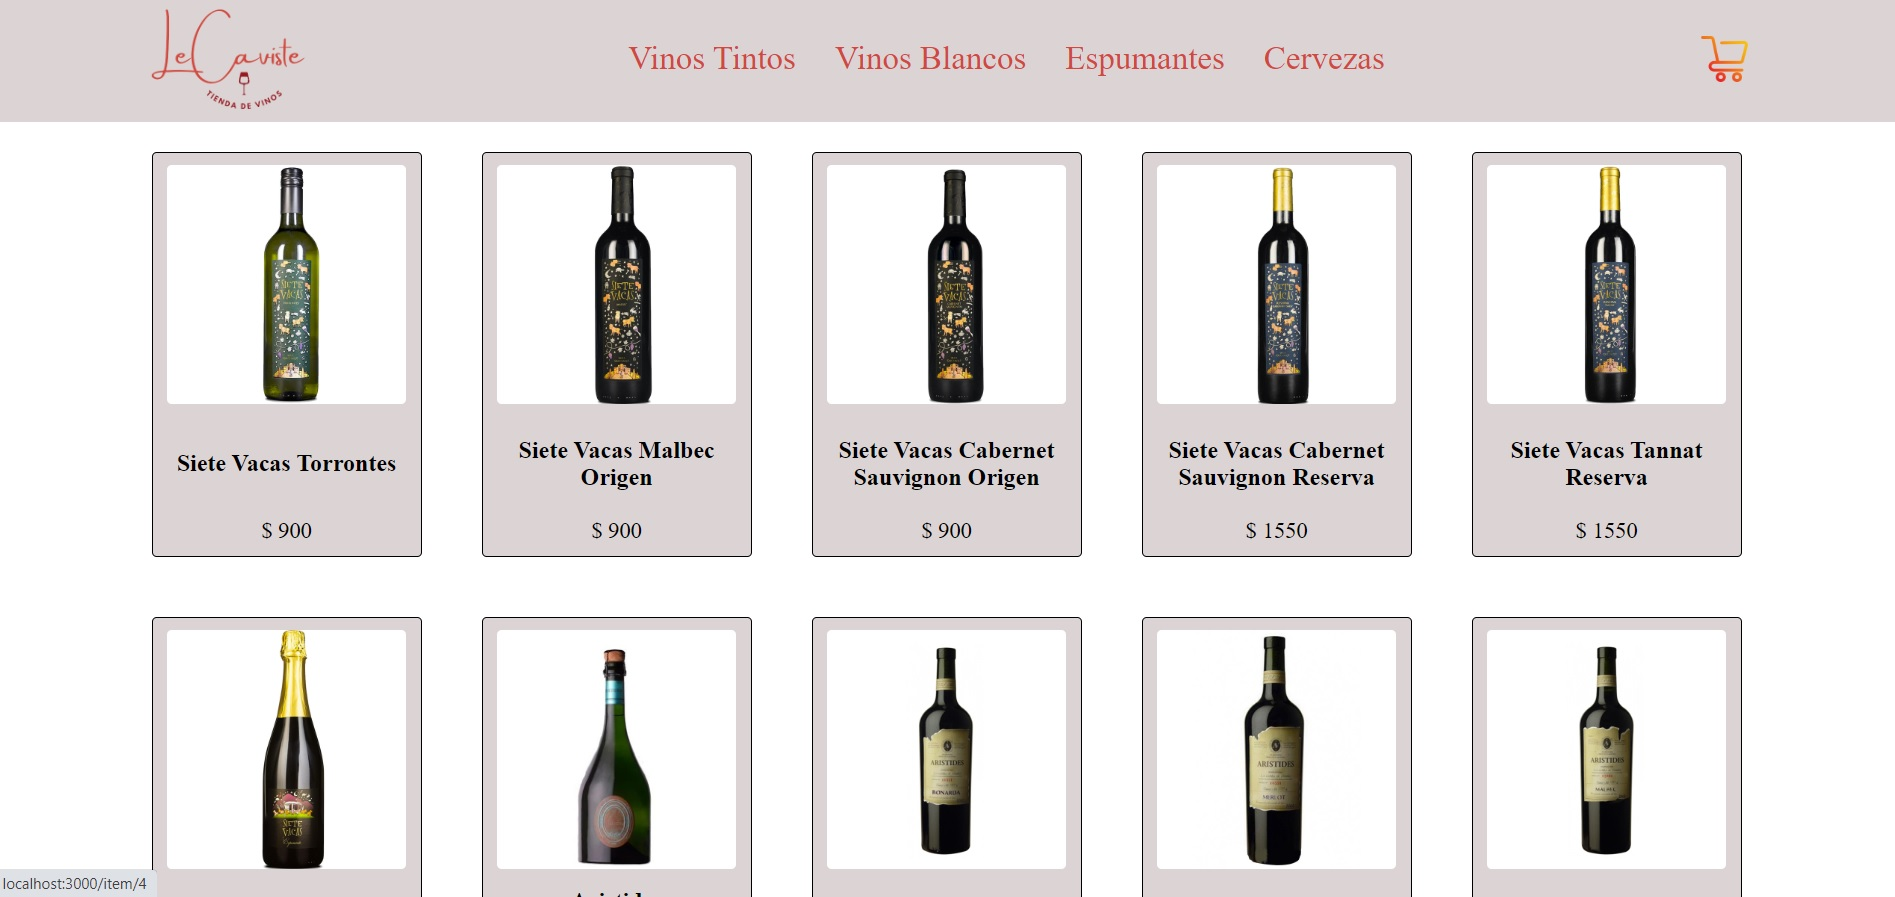
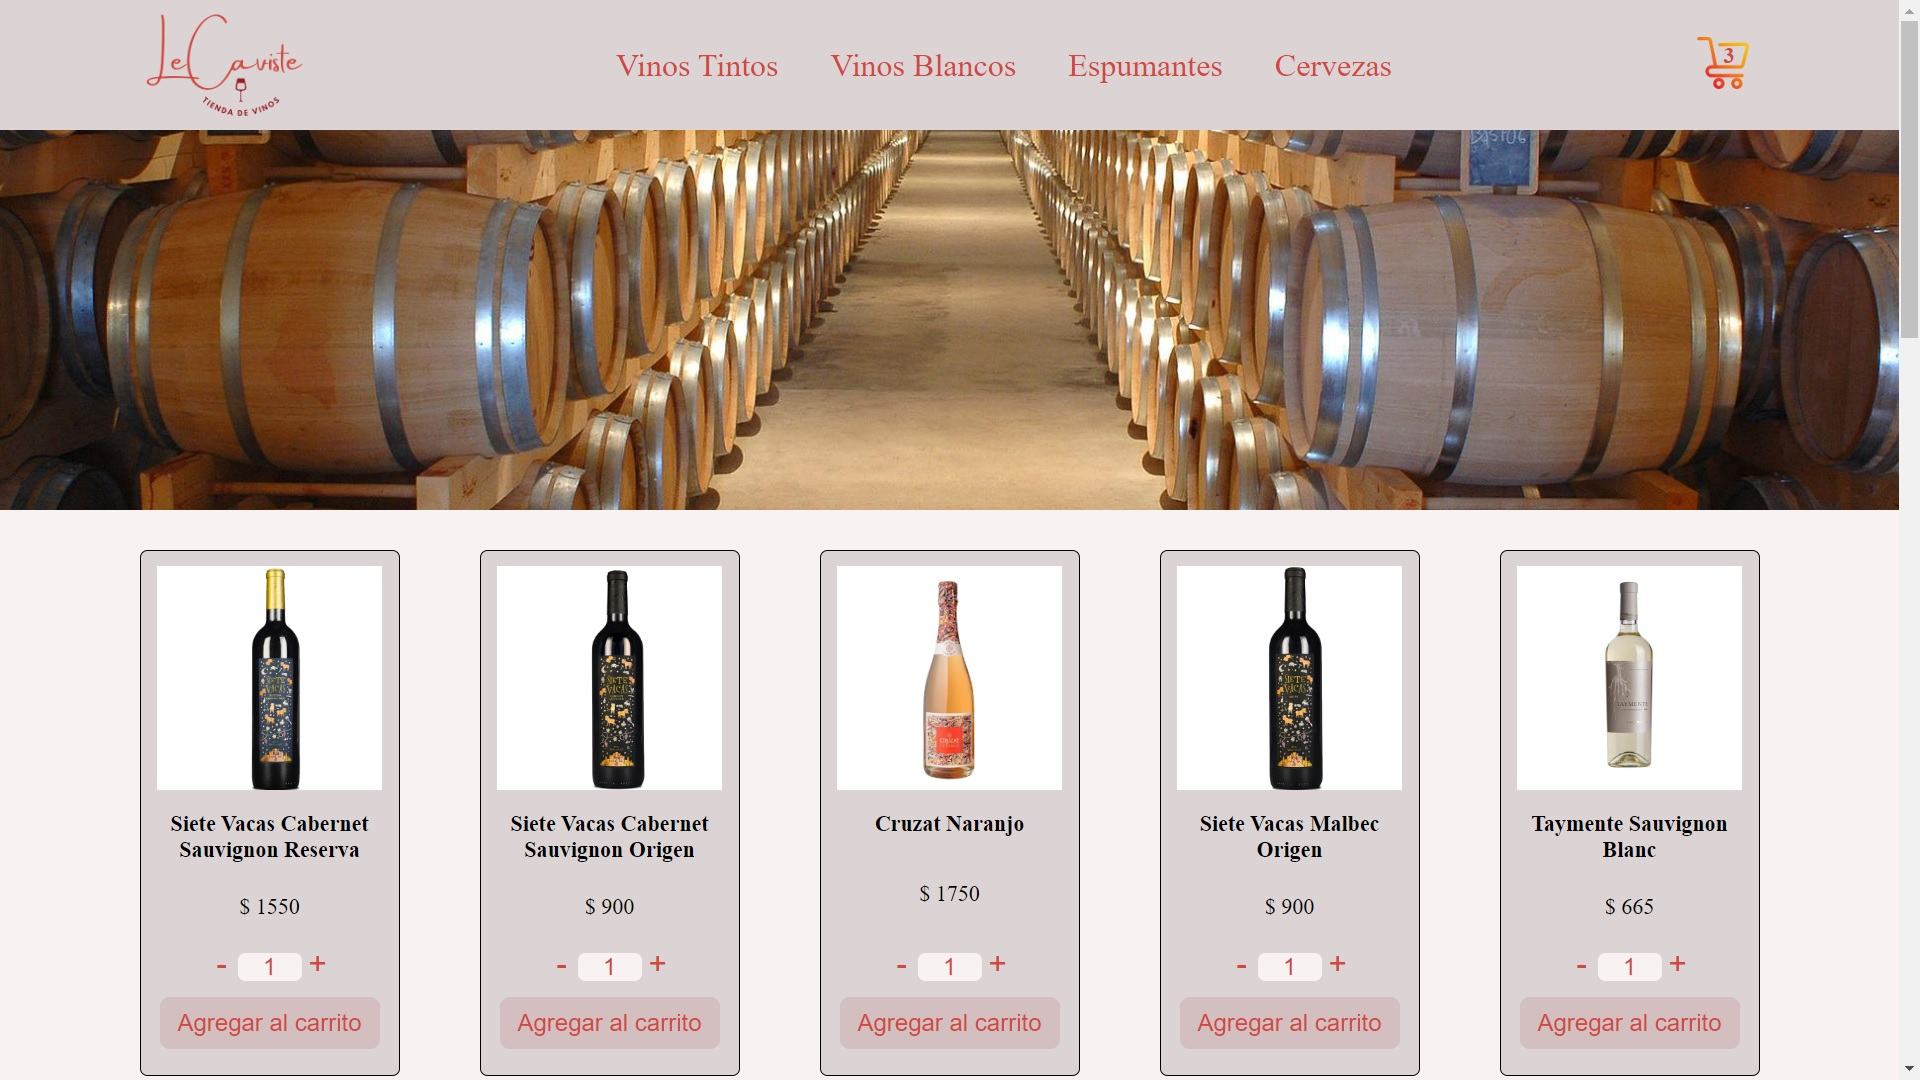
update readme

diff --git a/README.md b/README.md
@@ -8,7 +8,9 @@ El proyecto es un E-Commerce desarrollado en React de venta de bebidas alcohóli
 
 El proyecto busca mostrar un catálogo de productos, filtrar los mismos en diferentes categorias y mostrar un detalle con las características de cada uno de ellos.
 
-Sus funcionalidades permitirán al usuario elegir la cantidad de cada producto que desean comprar para agregarlos a un carrito de compras y finalizar la transacción.
+La base de datos de los productos se encuentra alojada en Firestore y de alli se obtienen para su renderizado, asi mismo al realizarce una compra se guarda en dicho servicio los datos de la transacción.
+
+Sus funcionalidades permiten al usuario elegir la cantidad de cada producto que desean comprar para agregarlos a un carrito de compras y finalizar la transacción.
 
 ## **Screenshots**
 
@@ -26,6 +28,10 @@ Sus funcionalidades permitirán al usuario elegir la cantidad de cada producto q
 
 ![App Screenshot Detalle productos](src/assets/product_.detail.jpg)
 
+### Carrito
+
+![App Screenshot Detalle productos](src/assets/cart.jpg)
+
 ## **DEMO**
 
 ---
@@ -37,6 +43,7 @@ Sus funcionalidades permitirán al usuario elegir la cantidad de cada producto q
 ---
 
 - react-router-dom
+- Firebase
 
 ## **Instalación**
 
@@ -47,3 +54,10 @@ $ cd ../path/lorences-proyecto-react
 $ npm install
 $ npm run start
 ```
+
+
+https://lorences-proyecto-react.vercel.app/
+
+Nicolas Lorences.
+
+Junio de 2022.
